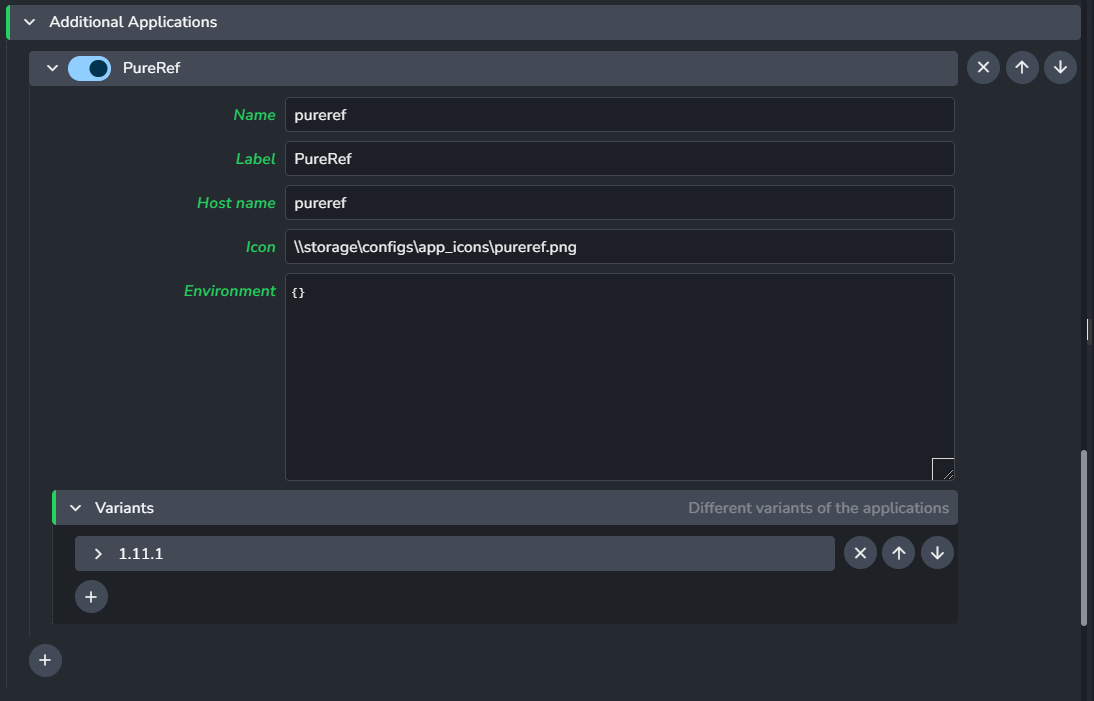
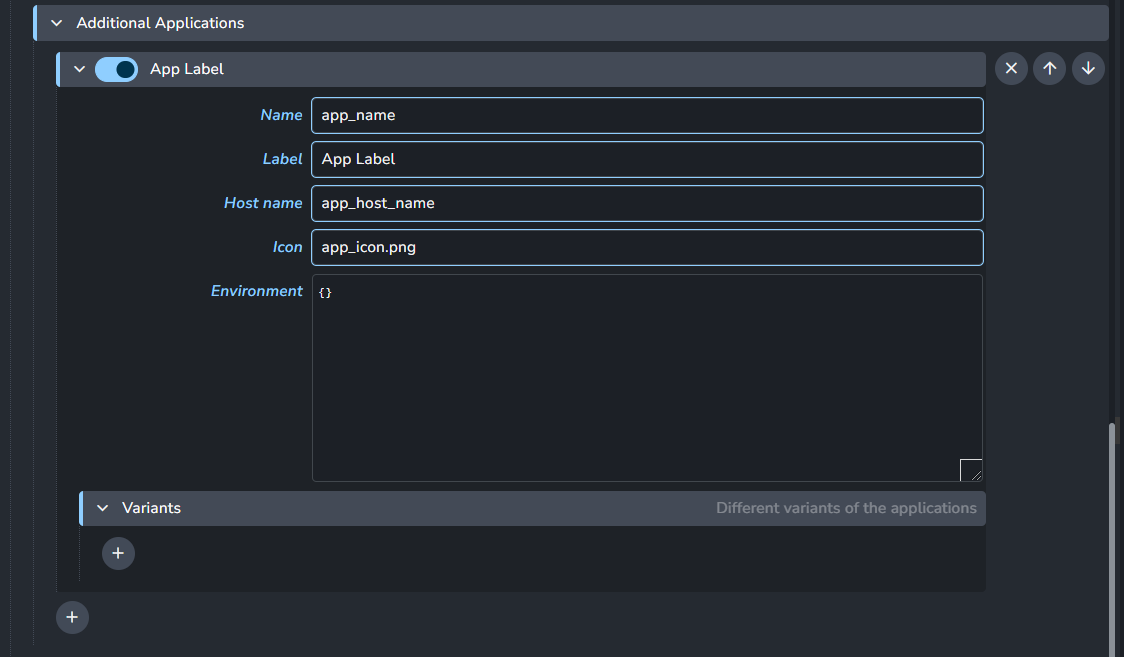
add screenshot for additional applications settings

diff --git a/website/docs/addon_applications_admin.md b/website/docs/addon_applications_admin.md
@@ -78,6 +78,9 @@ However, they you won't find any AYON menus as that requires an AYON addon for t
 
 Each added applications has the same application group explained earlier. 
 However it exposes few more attributes:
+
+![](assets/applications/additional_applications_2.png)
+
 - **Application Name:** The name of the application.
 - **Application Label:** The label of the application and the application group (the name next to the toggle).
 - **Application Icon:** The icon that would be displayed by the AYON launcher.
@@ -85,7 +88,8 @@ However it exposes few more attributes:
 :::tip Example Additional Application
 <details><summary>Example Additional Application</summary>
 
-![](assets/applications/additional_applications_2.png)
+![](assets/applications/additional_applications_3.png)
+
 </details>
 :::
 
